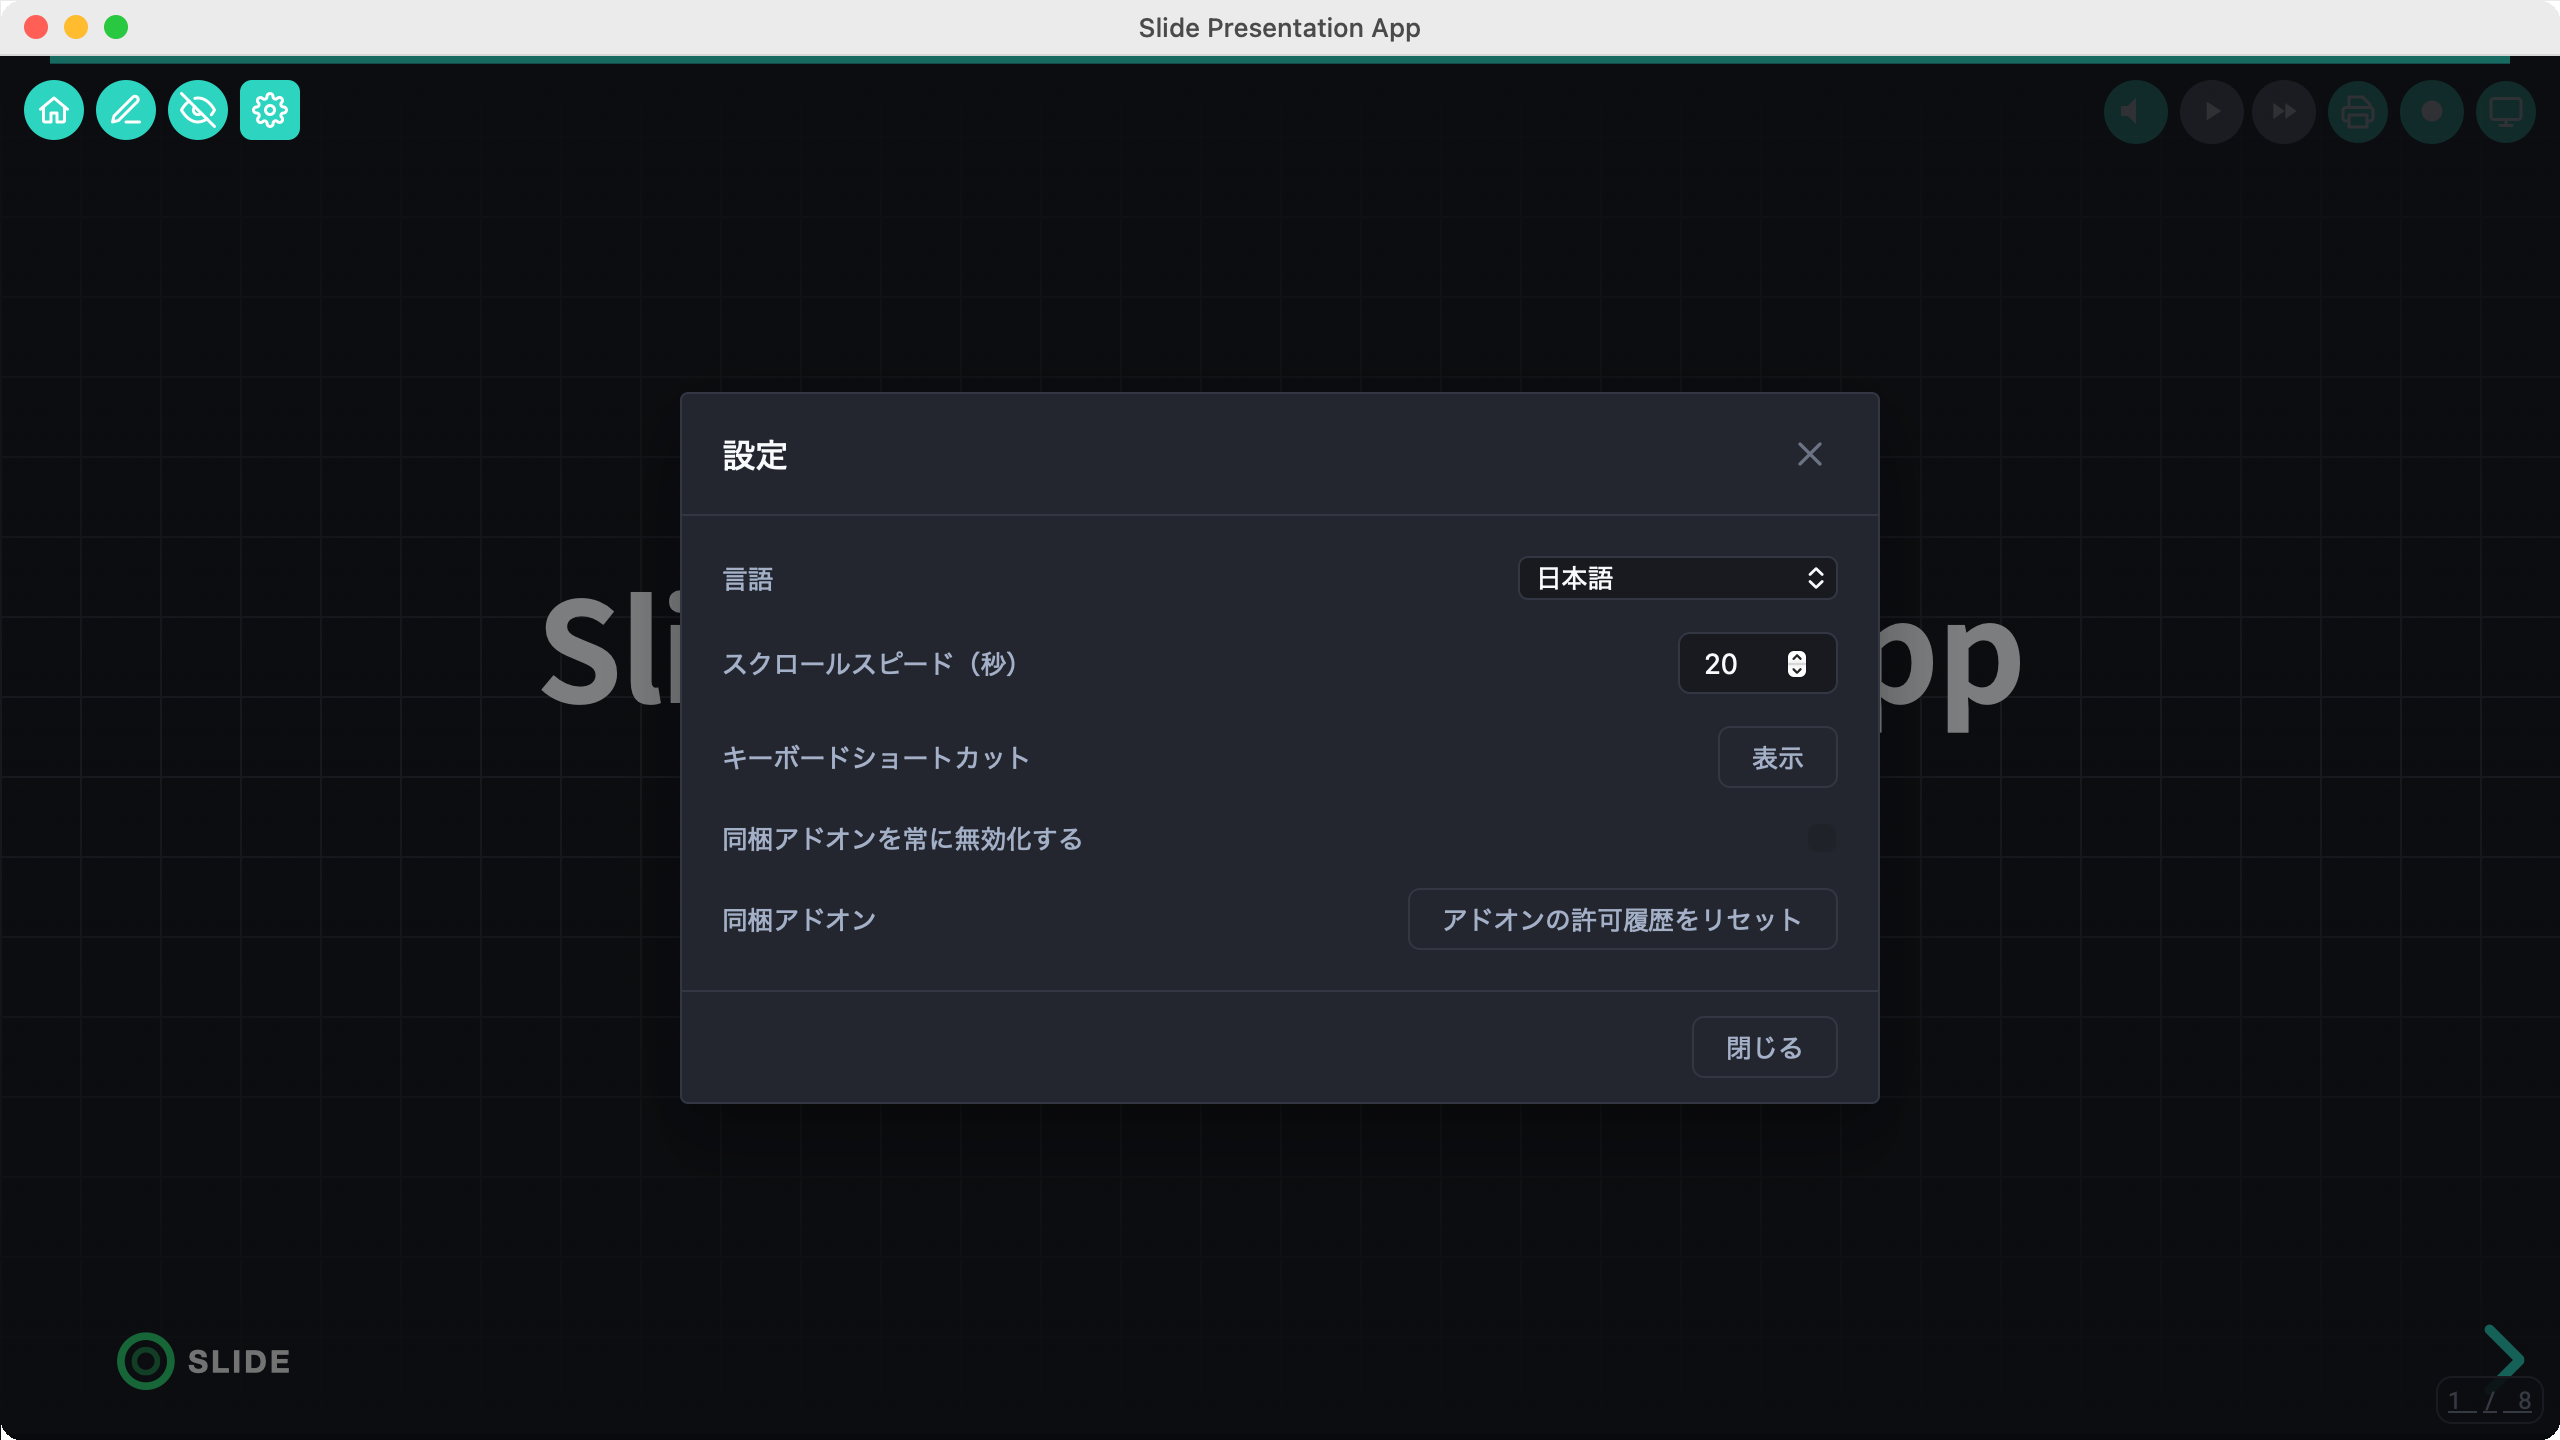
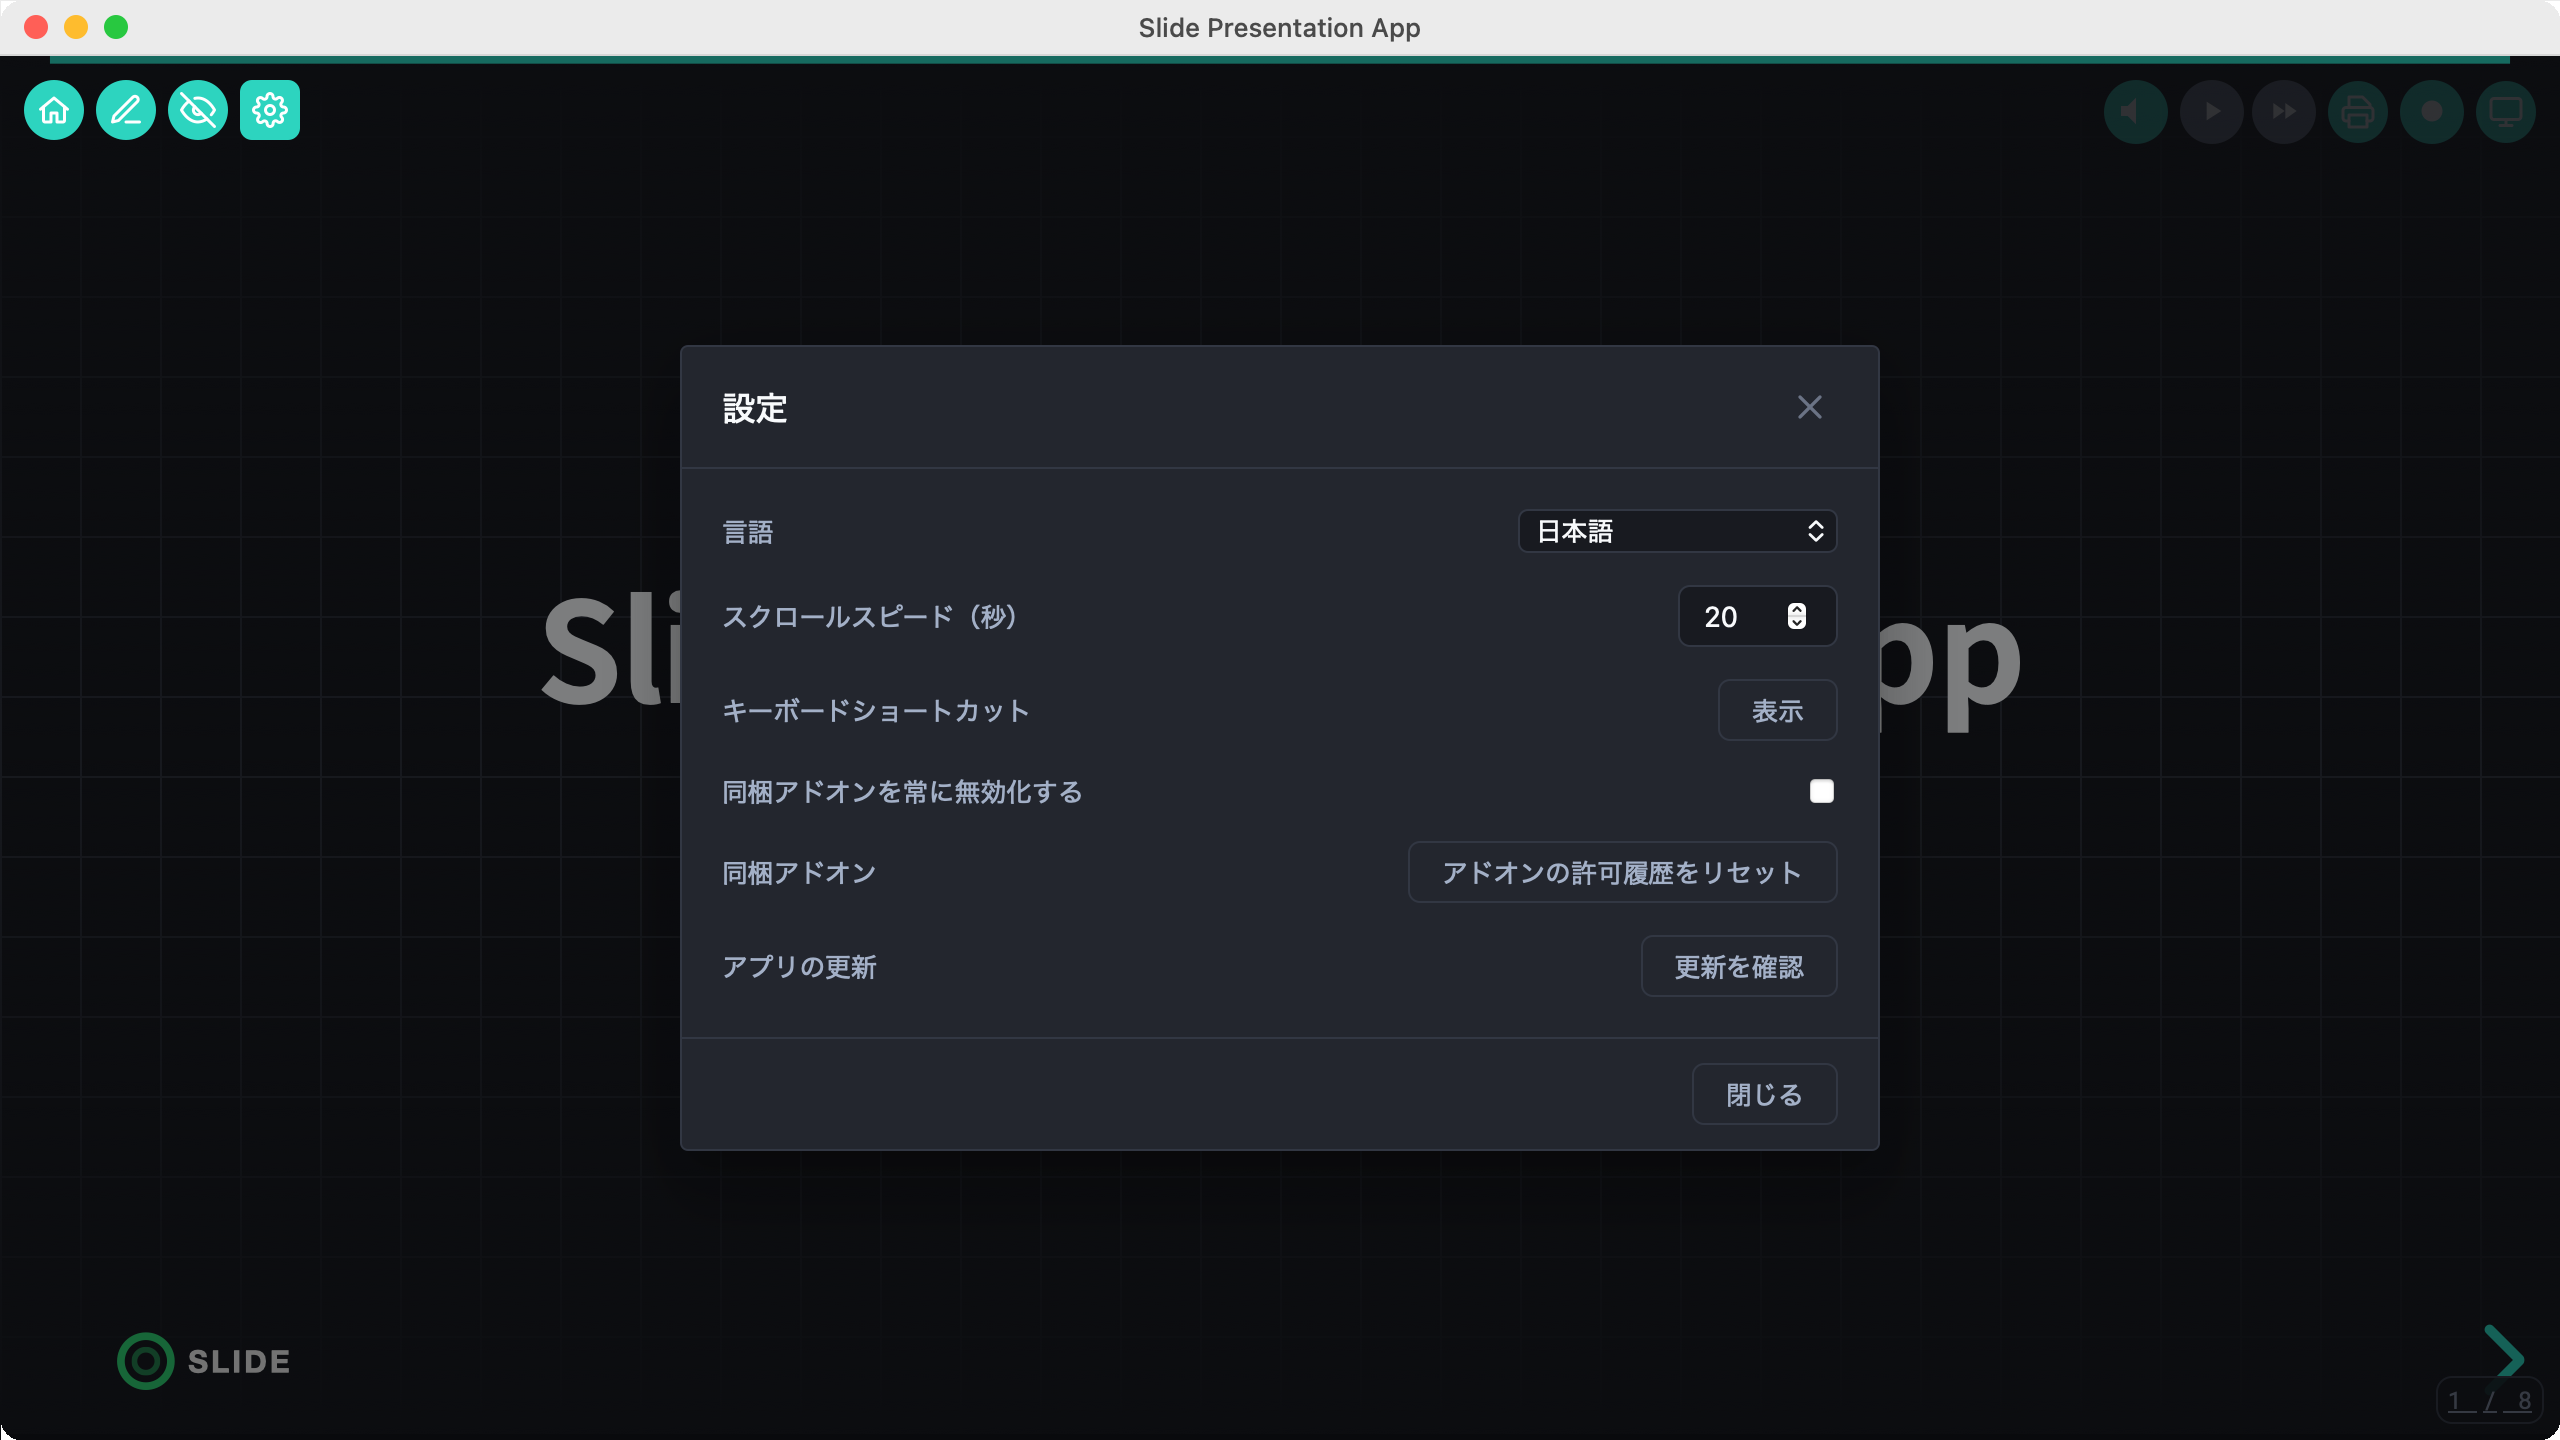
[docs] v2.5.1 リリース準備 (#413)
* [update] スクリーンショット更新 (v2.5.1)

* [docs] v2.5.1 リリース準備

---------

diff --git a/README.ja.md b/README.ja.md
@@ -2,7 +2,7 @@
 
 [English](README.md) | **日本語**
 
-![version](https://img.shields.io/badge/version-2.5.0-blue)
+![version](https://img.shields.io/badge/version-2.5.1-blue)
 
 React + Reveal.js で構築し、Tauri でローカルデスクトップアプリとしてパッケージ化したスライドプレゼンテーションツールです。
 スライドの内容とテーマを JSON ファイルで定義し、ネイティブウィンドウでプレゼンテーションとして表示します。

diff --git a/CHANGELOG.md b/CHANGELOG.md
@@ -6,6 +6,16 @@ All notable changes to this project will be documented in this file.
 
 ## [Unreleased]
 
+## [2.5.1] - 2026-08-28
+
+### Added
+
+- Added a "Check for updates" action to the settings screen and to the OS-native app menu, so you can manually check for updates without waiting for the automatic check
+
+### Changed
+
+- Shortened the automatic update check cooldown from 24 hours to 1 hour
+
 ## [2.5.0] - 2026-08-28
 
 ### Added

diff --git a/CHANGELOG.ja.md b/CHANGELOG.ja.md
@@ -6,6 +6,16 @@
 
 ## [Unreleased]
 
+## [2.5.1] - 2026-08-28
+
+### 追加
+
+- 設定画面とOSネイティブのアプリメニューに「更新を確認」を追加し、自動チェックを待たずに手動で更新を確認できるように
+
+### 変更
+
+- 自動更新チェックのクールダウンを24時間から1時間に短縮
+
 ## [2.5.0] - 2026-08-28
 
 ### 追加

diff --git a/README.md b/README.md
@@ -2,7 +2,7 @@
 
 **English** | [日本語](README.ja.md)
 
-![version](https://img.shields.io/badge/version-2.5.0-blue)
+![version](https://img.shields.io/badge/version-2.5.1-blue)
 
 A slide presentation tool built with React + Reveal.js, packaged as a local desktop app with Tauri.
 Define slide content and themes using JSON files and display them as presentations in a native window.
